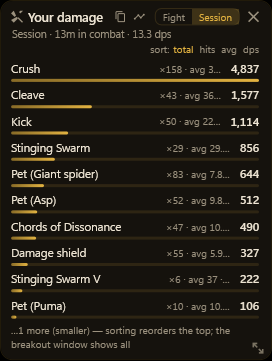
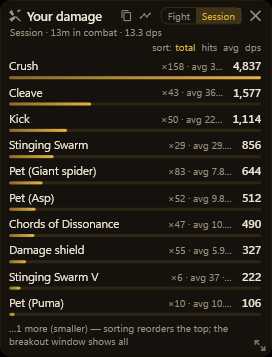
Gate 5c: both BreakoutWindow files join the ratchet
The whole breakout surface — markup and code-behind — is now glyph-clean AND
size-clean, so it joins MainWindow.xaml on the list. Three of the four widget
files the gate set out to migrate are done.

Same approach as the widget markup: the repeated tuples earned names in
DesignSystem.Tokens() rather than becoming one-offs, and the off-scale values
snapped toward the scale — the chrome's CornerRadius 12 to the panel radius,
10,7,10,9 padding to a named PadBreakout, 10.5pt subtitles to the metadata role.
1px verticals stayed as 1, which the ratchet allows on purpose.

Verified by picture after a clean rebuild, not by the tests passing: both
breakouts render as before.

Remaining for Gate 5: MainWindow.xaml.cs (40 glyphs outside comments, all of
them controls-passed-as-strings or prose that names a control) and the Avalonia
MainWindow (41), plus the three heavy card bodies. Theme.xaml's 6 are inside
shared ControlTemplates and belong to 5d.

1983 unit + 227 Avalonia + 10 E2E green.

diff --git a/src/EQBuddy/BreakoutWindow.xaml b/src/EQBuddy/BreakoutWindow.xaml
@@ -6,7 +6,7 @@
         WindowStyle="None" AllowsTransparency="True"
         Background="Transparent" Topmost="True" ShowInTaskbar="False" ShowActivated="False"
         ResizeMode="CanResize" WindowStartupLocation="Manual">
-    <Border x:Name="Chrome" CornerRadius="12" BorderThickness="1" Padding="10,7,10,9"
+    <Border x:Name="Chrome" CornerRadius="{DynamicResource CornerPanel}" BorderThickness="1" Padding="{DynamicResource PadBreakout}"
             MouseLeftButtonDown="OnDrag">
         <Grid>
             <Grid.RowDefinitions>
@@ -29,49 +29,49 @@
                      TRIMS, and a stack measures with infinite width so trimming would
                      never fire and the text would run under the buttons (trap 14). -->
                 <local:EqIcon x:Name="TitleIcon" Glyph="Info" Size="12"
-                              VerticalAlignment="Center" Margin="0,0,5,0"/>
-                <TextBlock Grid.Column="1" x:Name="TitleText" FontSize="12.5" FontWeight="SemiBold"
+                              VerticalAlignment="Center" Margin="{DynamicResource GapS}"/>
+                <TextBlock Grid.Column="1" x:Name="TitleText" FontSize="{DynamicResource FontTitleSection}" FontWeight="SemiBold"
                            TextTrimming="CharacterEllipsis" VerticalAlignment="Center"/>
                 <!-- Damage kind only (#102, jeremycranfill): the Combat card's ⧉ fight
                      export, reachable without leaving the minimized view. -->
                 <local:EqIcon Grid.Column="2" x:Name="CopyFight" Glyph="Copy" Size="11"
-                           VerticalAlignment="Center" Cursor="Hand" Margin="4,0"
+                           VerticalAlignment="Center" Cursor="Hand" Margin="{DynamicResource FlankXs}"
                            Visibility="Collapsed" MouseLeftButtonDown="OnCopyFight"
                            Ink="DimBrush"
                            ToolTip="Copy the last fight as Discord-ready text (a monospace block — the official Discord blocks images, so the parse travels as text). Your numbers only, from your log."/>
                 <local:EqIcon Grid.Column="3" x:Name="OpenTimeline" Glyph="Timeline" Size="11"
-                           VerticalAlignment="Center" Cursor="Hand" Margin="4,0"
+                           VerticalAlignment="Center" Cursor="Hand" Margin="{DynamicResource FlankXs}"
                            Visibility="Collapsed" MouseLeftButtonDown="OnOpenTimeline"
                            Ink="DimBrush"
                            ToolTip="Fight timeline: the whole pull, a lane per skill — every hit, miss and resist, plus DPS over time."/>
-                <Border Grid.Column="4" x:Name="ScopeBorder" CornerRadius="6" BorderThickness="1"
-                        Margin="6,0,6,0" VerticalAlignment="Center">
+                <Border Grid.Column="4" x:Name="ScopeBorder" CornerRadius="{DynamicResource CornerCard}" BorderThickness="1"
+                        Margin="{DynamicResource FlankS}" VerticalAlignment="Center">
                     <StackPanel Orientation="Horizontal">
-                        <TextBlock x:Name="ScopeFight" Text="Fight" FontSize="10" Padding="7,1"
+                        <TextBlock x:Name="ScopeFight" Text="Fight" FontSize="{DynamicResource FontMetadata}" Padding="{DynamicResource PadScope}"
                                    Cursor="Hand" MouseLeftButtonDown="OnScopeFight"/>
-                        <TextBlock x:Name="ScopeSession" Text="Session" FontSize="10" Padding="7,1"
+                        <TextBlock x:Name="ScopeSession" Text="Session" FontSize="{DynamicResource FontMetadata}" Padding="{DynamicResource PadScope}"
                                    Cursor="Hand" MouseLeftButtonDown="OnScopeSession"/>
                     </StackPanel>
                 </Border>
                 <local:EqIcon Grid.Column="5" Glyph="Close" Size="11" VerticalAlignment="Center"
-                           Cursor="Hand" Margin="2,0" MouseLeftButtonDown="OnDismiss"
+                           Cursor="Hand" Margin="{DynamicResource FlankXxs}" MouseLeftButtonDown="OnDismiss"
                            ToolTip="Hide this window for good (its star chip stays; re-enable under Options → Breakout windows)"/>
             </Grid>
-            <TextBlock Grid.Row="1" x:Name="SubText" FontSize="10.5" Margin="1,0,0,2"
+            <TextBlock Grid.Row="1" x:Name="SubText" FontSize="{DynamicResource FontMetadata}" Margin="{DynamicResource RowTightLeft}"
                        TextTrimming="CharacterEllipsis"/>
             <!-- Sort links for the stat kinds (damage/healing/pet), same metrics as the
                  main cards; hidden for Watch and Loot, whose rows aren't ability stats. -->
             <StackPanel Grid.Row="2" x:Name="SortBar" Orientation="Horizontal"
-                        HorizontalAlignment="Right" Margin="0,0,2,3">
-                <TextBlock Text="sort:" FontSize="10" Margin="0,0,4,0"
+                        HorizontalAlignment="Right" Margin="{DynamicResource GripInset}">
+                <TextBlock Text="sort:" FontSize="{DynamicResource FontMetadata}" Margin="{DynamicResource GapXs}"
                            Foreground="{DynamicResource DimBrush}"/>
-                <TextBlock x:Name="SortTotal" Text="total" FontSize="10" Cursor="Hand"
-                           Tag="total" MouseLeftButtonDown="OnSortClick" Margin="0,0,6,0"/>
-                <TextBlock x:Name="SortHits" Text="hits" FontSize="10" Cursor="Hand"
-                           Tag="hits" MouseLeftButtonDown="OnSortClick" Margin="0,0,6,0"/>
-                <TextBlock x:Name="SortAvg" Text="avg" FontSize="10" Cursor="Hand"
-                           Tag="avg" MouseLeftButtonDown="OnSortClick" Margin="0,0,6,0"/>
-                <TextBlock x:Name="SortRate" Text="dps" FontSize="10" Cursor="Hand"
+                <TextBlock x:Name="SortTotal" Text="total" FontSize="{DynamicResource FontMetadata}" Cursor="Hand"
+                           Tag="total" MouseLeftButtonDown="OnSortClick" Margin="{DynamicResource GapS}"/>
+                <TextBlock x:Name="SortHits" Text="hits" FontSize="{DynamicResource FontMetadata}" Cursor="Hand"
+                           Tag="hits" MouseLeftButtonDown="OnSortClick" Margin="{DynamicResource GapS}"/>
+                <TextBlock x:Name="SortAvg" Text="avg" FontSize="{DynamicResource FontMetadata}" Cursor="Hand"
+                           Tag="avg" MouseLeftButtonDown="OnSortClick" Margin="{DynamicResource GapS}"/>
+                <TextBlock x:Name="SortRate" Text="dps" FontSize="{DynamicResource FontMetadata}" Cursor="Hand"
                            Tag="rate" MouseLeftButtonDown="OnSortClick"/>
             </StackPanel>
             <!-- Loot Session scope only: show all / looted / other on the left and the
@@ -85,28 +85,28 @@
                           HorizontalScrollBarVisibility="Disabled" PanningMode="VerticalOnly">
                 <StackPanel>
                     <ItemsControl x:Name="Rows"/>
-                    <TextBlock x:Name="EmptyText" FontSize="11" Margin="1,1,0,0" Visibility="Collapsed"/>
+                    <TextBlock x:Name="EmptyText" FontSize="{DynamicResource FontCaption}" Margin="1,1,0,0" Visibility="Collapsed"/>
                 </StackPanel>
             </ScrollViewer>
             <!-- Buffs kind only (#120 stage 2, Frankthetankk): the in-place editor —
                  pick a class bucket, type a buff, done, no Options round-trip. Same
                  seen-first search the Options editor uses (BuffSetSearch). -->
-            <Grid Grid.Row="4" x:Name="BuffEditor" Visibility="Collapsed" Margin="0,5,0,0">
+            <Grid Grid.Row="4" x:Name="BuffEditor" Visibility="Collapsed" Margin="{DynamicResource LeadXs}">
                 <Grid.ColumnDefinitions>
                     <ColumnDefinition Width="Auto"/>
                     <ColumnDefinition Width="*"/>
                 </Grid.ColumnDefinitions>
-                <ComboBox x:Name="BuffClassBox" FontSize="11" MinWidth="90" Margin="0,0,5,0"
+                <ComboBox x:Name="BuffClassBox" FontSize="{DynamicResource FontCaption}" MinWidth="90" Margin="{DynamicResource GapS}"
                           VerticalAlignment="Center"
                           ToolTip="Which class bucket the next pick goes into — (any class) applies whatever combination you run"/>
-                <TextBox Grid.Column="1" x:Name="BuffAddBox" FontSize="11.5"
+                <TextBox Grid.Column="1" x:Name="BuffAddBox" FontSize="{DynamicResource FontBodySecondary}"
                          Style="{DynamicResource InputBox}"
                          TextChanged="OnBuffSearchChanged"
                          ToolTip="Type a few letters of a buff — buffs you've been seen casting list first, then the whole catalog"/>
                 <Popup x:Name="BuffPopup" PlacementTarget="{Binding ElementName=BuffAddBox}"
                        Placement="Bottom" StaysOpen="False" AllowsTransparency="True">
-                    <Border x:Name="BuffPopupChrome" BorderThickness="1" Padding="2" CornerRadius="6">
-                        <ListBox x:Name="BuffMatches" MaxHeight="200" MaxWidth="360" FontSize="11.5"
+                    <Border x:Name="BuffPopupChrome" BorderThickness="1" Padding="{DynamicResource PadXxs}" CornerRadius="{DynamicResource CornerCard}">
+                        <ListBox x:Name="BuffMatches" MaxHeight="200" MaxWidth="360" FontSize="{DynamicResource FontBodySecondary}"
                                  SelectionChanged="OnBuffMatchPicked"/>
                     </Border>
                 </Popup>
@@ -124,7 +124,7 @@
                     <ControlTemplate TargetType="Thumb">
                         <local:EqIcon Glyph="Expand" Size="11" Opacity="0.75"
                                    Foreground="{DynamicResource AccentBrush}"
-                                   Background="Transparent" Padding="2,0,0,0"/>
+                                   Background="Transparent" Padding="{DynamicResource InsetXxsLeft}"/>
                     </ControlTemplate>
                 </Thumb.Template>
             </Thumb>

diff --git a/src/EQBuddy/BreakoutWindow.xaml.cs b/src/EQBuddy/BreakoutWindow.xaml.cs
@@ -622,8 +622,8 @@ public partial class BreakoutWindow : Window
                 // freshly swapped-in class gets, right where adding happens.
                 var none = new TextBlock
                 {
-                    Text = "nothing picked for this class yet", FontSize = 11,
-                    FontStyle = FontStyles.Italic, Margin = new Thickness(4, 0, 0, 2),
+                    Text = "nothing picked for this class yet", FontSize = DesignTokens.Spec(DesignTokens.TypeRole.Caption).Size,
+                    FontStyle = FontStyles.Italic, Margin = new Thickness(DesignTokens.SpaceXs, 0, 0, DesignTokens.SpaceXxs),
                 };
                 none.SetResourceReference(TextBlock.ForegroundProperty, "DimBrush");
                 Rows.Items.Add(none);
@@ -639,14 +639,14 @@ public partial class BreakoutWindow : Window
     /// gaining class's bucket / ✕ dismiss for good — never auto-added.</summary>
     private Grid BuffSuggestionRow(MainWindow main, BuffSuggestion sug)
     {
-        var row = new Grid { Margin = new Thickness(4, 3, 0, 1) };
+        var row = new Grid { Margin = new Thickness(DesignTokens.SpaceXs, DesignTokens.StateRuleWidth, 0, 1) };
         row.ColumnDefinitions.Add(new ColumnDefinition { Width = new GridLength(1, GridUnitType.Star) });
         row.ColumnDefinitions.Add(new ColumnDefinition { Width = GridLength.Auto });
         row.ColumnDefinitions.Add(new ColumnDefinition { Width = GridLength.Auto });
         var text = new TextBlock
         {
             Text = $"new at your level — add {sug.Spell} to {sug.Class}?",
-            FontSize = 11, FontStyle = FontStyles.Italic,
+            FontSize = DesignTokens.Spec(DesignTokens.TypeRole.Caption).Size, FontStyle = FontStyles.Italic,
             TextTrimming = TextTrimming.CharacterEllipsis,
             VerticalAlignment = VerticalAlignment.Center,
             ToolTip = "Your level-up made this buff available. The tick adds it to that "
@@ -659,7 +659,7 @@ public partial class BreakoutWindow : Window
         {
             Style = (Style)FindResource("IconButton"),
             Content = DesignSystem.Icon("Check", "GoodBrush", size: DesignTokens.IconInline),
-            Margin = new Thickness(4, 0, 0, 0), ToolTip = $"Add {sug.Spell} to your {sug.Class} set",
+            Margin = new Thickness(DesignTokens.SpaceXs, 0, 0, 0), ToolTip = $"Add {sug.Spell} to your {sug.Class} set",
         };
         add.Click += (_, _) => main.AcceptBuffSuggestion(sug);
         Grid.SetColumn(add, 1);
@@ -668,7 +668,7 @@ public partial class BreakoutWindow : Window
         {
             Style = (Style)FindResource("IconButton"),
             Content = DesignSystem.Icon("Close", size: DesignTokens.IconInline),
-            Margin = new Thickness(4, 0, 0, 0),
+            Margin = new Thickness(DesignTokens.SpaceXs, 0, 0, 0),
             ToolTip = "Dismiss — never suggest this buff for this character again",
         };
         dismiss.Click += (_, _) => main.DismissBuffSuggestion(sug);
@@ -687,7 +687,7 @@ public partial class BreakoutWindow : Window
     private void AddBuffLossFold(MainWindow main, List<BuffLossEntry> losses)
     {
         if (losses.Count == 0) return;
-        var head = new Grid { Margin = new Thickness(0, 5, 0, 0) };
+        var head = new Grid { Margin = new Thickness(0, DesignTokens.SpaceXs, 0, 0) };
         head.ColumnDefinitions.Add(new ColumnDefinition { Width = GridLength.Auto });
         head.ColumnDefinitions.Add(new ColumnDefinition { Width = new GridLength(1, GridUnitType.Star) });
         head.ColumnDefinitions.Add(new ColumnDefinition { Width = GridLength.Auto });
@@ -706,7 +706,7 @@ public partial class BreakoutWindow : Window
         var label = new TextBlock
         {
             Text = $"lost this session ({losses.Count})",
-            FontSize = 11, Cursor = System.Windows.Input.Cursors.Hand,
+            FontSize = DesignTokens.Spec(DesignTokens.TypeRole.Caption).Size, Cursor = System.Windows.Input.Cursors.Hand,
             ToolTip = "Every set buff that went missing this session, newest first, with "
                 + "the best cause the log names: expired (the countdown ran out; est = "
                 + "the duration was still the wiki-base estimate), faded (the wear-off "
@@ -758,7 +758,7 @@ public partial class BreakoutWindow : Window
             var row = new TextBlock
             {
                 Text = $"{loss.Time:h:mm:ss tt}  {loss.Spell} — {loss.Cause}",
-                FontSize = 10.5, Margin = new Thickness(8, 0, 0, 1),
+                FontSize = DesignTokens.Spec(DesignTokens.TypeRole.Metadata).Size, Margin = new Thickness(DesignTokens.SpaceM, 0, 0, 1),
                 TextTrimming = TextTrimming.CharacterEllipsis,
                 ToolTip = $"{loss.Spell} — {loss.Cause} at {loss.Time:h:mm:ss tt}",
             };
@@ -772,7 +772,7 @@ public partial class BreakoutWindow : Window
     /// from THIS class bucket only.</summary>
     private Grid BuffSetRow(MainWindow main, string key, string cls, BuffSetEntryState entry)
     {
-        var row = new Grid { Margin = new Thickness(4, 1, 0, 1) };
+        var row = new Grid { Margin = new Thickness(DesignTokens.SpaceXs, 1, 0, 1) };
         row.ColumnDefinitions.Add(new ColumnDefinition { Width = new GridLength(1, GridUnitType.Star) });
         row.ColumnDefinitions.Add(new ColumnDefinition { Width = GridLength.Auto });
         row.ColumnDefinitions.Add(new ColumnDefinition { Width = GridLength.Auto });
@@ -785,7 +785,7 @@ public partial class BreakoutWindow : Window
         };
         var name = new TextBlock
         {
-            Text = entry.Spell, FontSize = 12, TextTrimming = TextTrimming.CharacterEllipsis,
+            Text = entry.Spell, FontSize = DesignTokens.Spec(DesignTokens.TypeRole.Body).Size, TextTrimming = TextTrimming.CharacterEllipsis,
             VerticalAlignment = VerticalAlignment.Center,
         };
         if (italic) name.FontStyle = FontStyles.Italic;
@@ -793,7 +793,7 @@ public partial class BreakoutWindow : Window
         row.Children.Add(name);
         var clock = new TextBlock
         {
-            Text = BuffStatusText(entry), FontSize = 11, Margin = new Thickness(6, 0, 0, 0),
+            Text = BuffStatusText(entry), FontSize = DesignTokens.Spec(DesignTokens.TypeRole.Caption).Size, Margin = new Thickness(DesignTokens.SpaceS, 0, 0, 0),
             VerticalAlignment = VerticalAlignment.Center,
             ToolTip = entry.Status switch
             {
@@ -812,7 +812,7 @@ public partial class BreakoutWindow : Window
         {
             Style = (Style)FindResource("IconButton"),
             Content = DesignSystem.Icon("Close", size: DesignTokens.IconInline),
-            Margin = new Thickness(4, 0, 0, 0), ToolTip = $"Remove {entry.Spell} from {cls}",
+            Margin = new Thickness(DesignTokens.SpaceXs, 0, 0, 0), ToolTip = $"Remove {entry.Spell} from {cls}",
         };
         remove.Click += (_, _) =>
         {

diff --git a/src/EQBuddy/DesignSystem.cs b/src/EQBuddy/DesignSystem.cs
@@ -91,6 +91,19 @@ internal static class DesignSystem
         d["GripBar"] = new Thickness(DesignTokens.SpaceL, 0, DesignTokens.Indent, 0);
         d["GripLine"] = new Thickness(DesignTokens.SpaceXl, 0, DesignTokens.SpaceXl,
             DesignTokens.SpaceXxs);
+
+        // The breakout windows' chrome.
+        d["PadBreakout"] = new Thickness(DesignTokens.SpaceM, DesignTokens.SpaceS,
+            DesignTokens.SpaceM, DesignTokens.SpaceM);
+        d["PadScope"] = new Thickness(DesignTokens.SpaceS, 1, DesignTokens.SpaceS, 1);
+        d["PadXxs"] = new Thickness(DesignTokens.SpaceXxs);
+        d["InsetXs"] = new Thickness(DesignTokens.SpaceXs, 0, 0, 0);
+        d["InsetS"] = new Thickness(DesignTokens.SpaceS, 0, 0, 0);
+        d["FlankXs"] = new Thickness(DesignTokens.SpaceXs, 0, DesignTokens.SpaceXs, 0);
+        d["FlankXxs"] = new Thickness(DesignTokens.SpaceXxs, 0, DesignTokens.SpaceXxs, 0);
+        d["FlankS"] = new Thickness(DesignTokens.SpaceS, 0, DesignTokens.SpaceS, 0);
+        d["InsetXxsLeft"] = new Thickness(DesignTokens.SpaceXxs, 0, 0, 0);
+        d["RowTightLeft"] = new Thickness(1, 0, 0, DesignTokens.SpaceXxs);
         return d;
     }
 

diff --git a/tests/EQBuddy.Tests/DesignRatchetTests.cs b/tests/EQBuddy.Tests/DesignRatchetTests.cs
@@ -44,9 +44,11 @@ public class DesignRatchetTests
         "EQBuddy.Avalonia/LootCardView.cs",
         // Gate 5: the widget's own markup — the FIRST widget file to join, and the one
         // the ratchet was written for. 473 violations were measured across the widget
-        // files at the start of the gate. The two BreakoutWindow files are glyph-clean
-        // and are next; they still carry literal sizes, so they are not on this list yet.
+        // files at the start of the gate. The two BreakoutWindow files
+        // joined with it — the whole breakout surface, markup and code-behind.
         "EQBuddy/MainWindow.xaml",
+        "EQBuddy/BreakoutWindow.xaml",
+        "EQBuddy/BreakoutWindow.xaml.cs",
     ];
 
     public static TheoryData<string> MigratedFiles()
